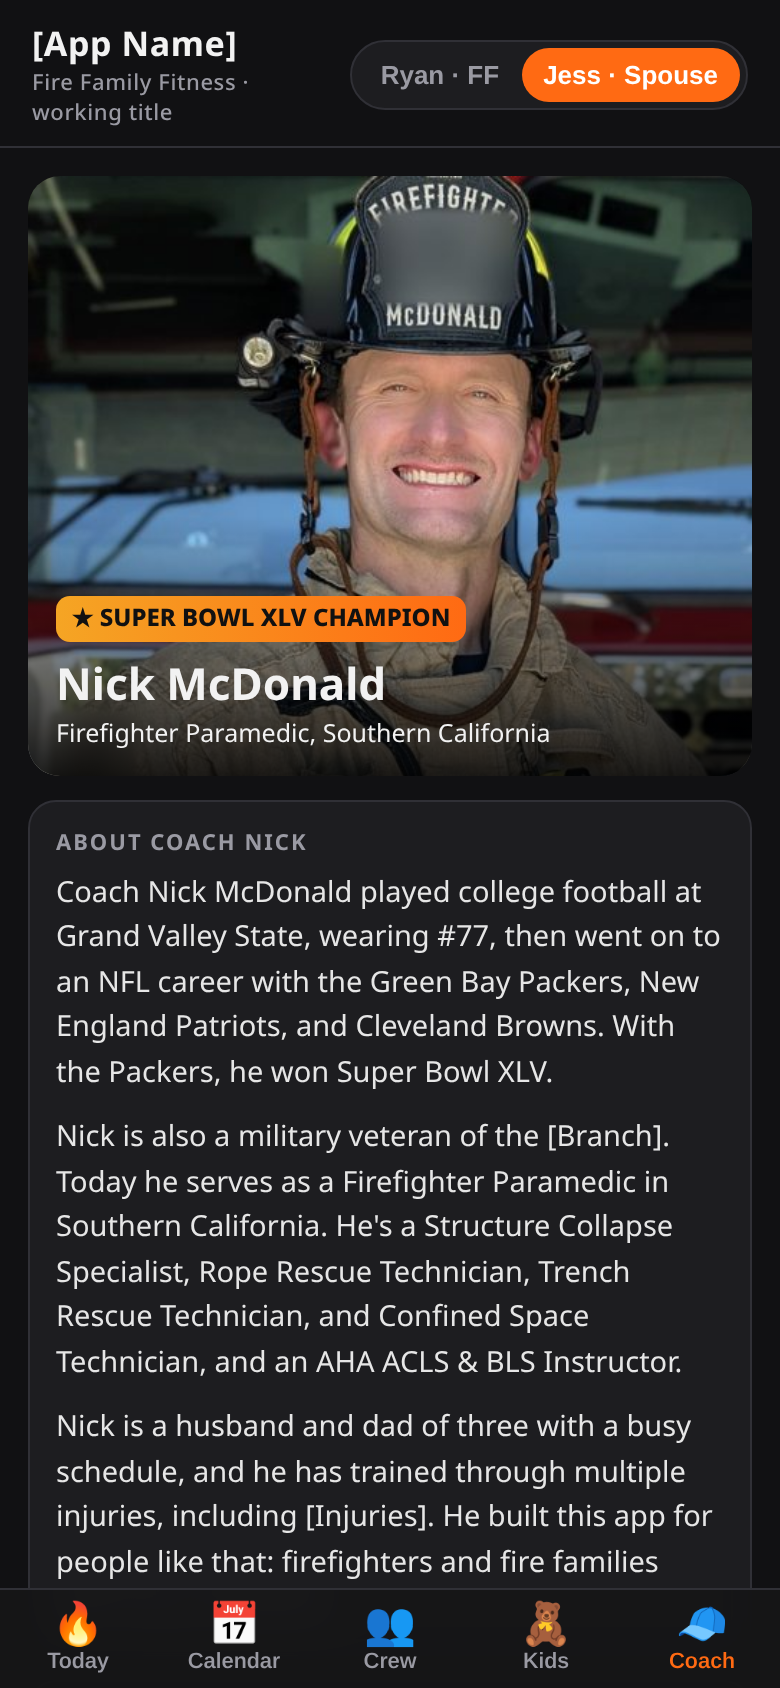
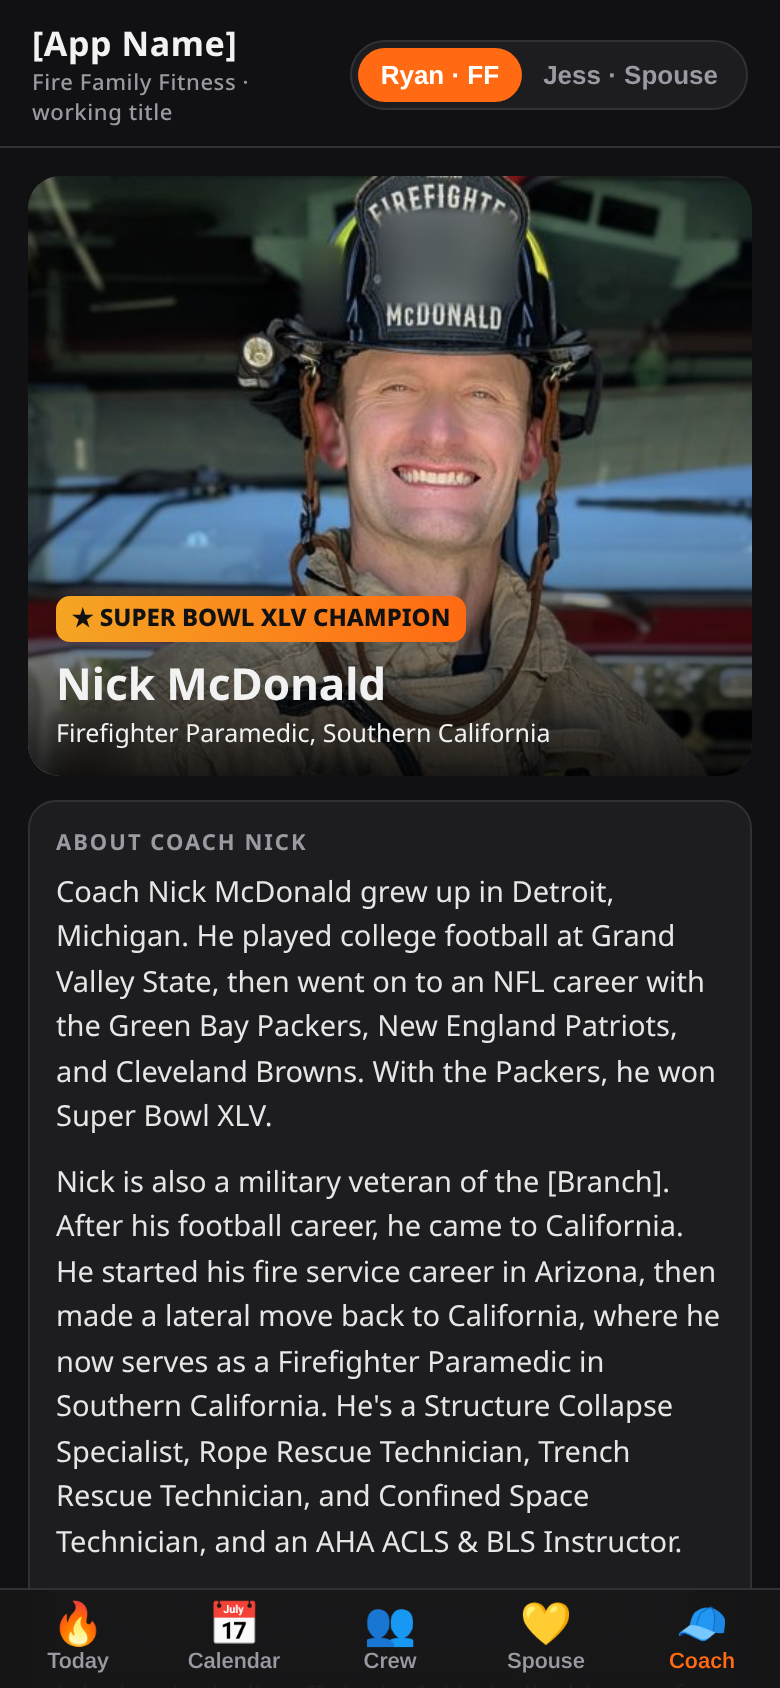
Coach bio: Detroit, AZ fire service, lateral to SoCal; remove jersey numbers; sw v6

Changed region(s): [[0.0615, 0.5237, 0.9231, 1.0], [0.4615, 0.0308, 0.9538, 0.0616]]

diff --git a/app.js b/app.js
@@ -152,16 +152,19 @@ ${[['Nap window · 20 min','Quiet, no jumping: goblet squat, rows, RDL, plank.']
 <div class="card"><div class="lbl">Fri · shared day off</div><h3>Partner workout with Ryan 💪</h3></div>`}
 function coach(){return `<div class="hero"><img src="img/nick.jpg" alt="Nick McDonald in turnouts"><div class="ov"><span class="badge">★ Super Bowl XLV Champion</span><h2 style="margin:6px 0 0">Nick McDonald</h2><div class="small">Firefighter Paramedic, Southern California</div></div></div>
 <div class="card"><div class="lbl">About Coach Nick</div><div class="bio">
-<p>Coach Nick McDonald played college football at Grand Valley State, wearing #77, then went on to an NFL career with the Green Bay Packers, New England Patriots, and Cleveland Browns. With the Packers, he won Super Bowl XLV.</p>
-<p>Nick is also a military veteran of the [Branch]. Today he serves as a Firefighter Paramedic in Southern California. He's a Structure Collapse Specialist, Rope Rescue Technician, Trench Rescue Technician, and Confined Space Technician, and an AHA ACLS &amp; BLS Instructor.</p>
+<p>Coach Nick McDonald grew up in Detroit, Michigan. He played college football at Grand Valley State, then went on to an NFL career with the Green Bay Packers, New England Patriots, and Cleveland Browns. With the Packers, he won Super Bowl XLV.</p>
+<p>Nick is also a military veteran of the [Branch]. After his football career, he came to California. He started his fire service career in Arizona, then made a lateral move back to California, where he now serves as a Firefighter Paramedic in Southern California. He's a Structure Collapse Specialist, Rope Rescue Technician, Trench Rescue Technician, and Confined Space Technician, and an AHA ACLS &amp; BLS Instructor.</p>
 <p>Nick is a husband and dad of three with a busy schedule, and he has trained through multiple injuries, including [Injuries]. He built this app for people like that: firefighters and fire families with busy schedules.</p></div></div>
 <div class="card"><div class="lbl">Career timeline</div><div class="tl">
-<div><b>College football</b><span>Grand Valley State · #77</span></div>
-<div><b>NFL · Green Bay Packers</b><span>#67 · Super Bowl XLV Champion</span></div>
-<div><b>NFL · New England Patriots</b><span>#65</span></div>
-<div><b>NFL · Cleveland Browns</b><span>[#]</span></div>
+<div><b>Hometown</b><span>Detroit, Michigan</span></div>
+<div><b>College football</b><span>Grand Valley State</span></div>
+<div><b>NFL · Green Bay Packers</b><span>Super Bowl XLV Champion</span></div>
+<div><b>NFL · New England Patriots</b></div>
+<div><b>NFL · Cleveland Browns</b></div>
 <div><b>Military</b><span>Veteran · [Branch]</span></div>
-<div><b>Fire service</b><span>Firefighter Paramedic · Southern California</span></div>
+<div><b>California</b><span>Moved after his football career</span></div>
+<div><b>Fire service · Arizona</b><span>Started his fire career</span></div>
+<div><b>Fire service · Southern California</b><span>Lateral move back · Firefighter Paramedic</span></div>
 </div></div>
 <div class="card"><div class="lbl">Credentials</div>${['Firefighter Paramedic','Structure Collapse Specialist','Rope Rescue Technician','Trench Rescue Technician','Confined Space Technician','AHA ACLS &amp; BLS Instructor'].map(c=>`<span class="cred">${c}</span>`).join('')}</div>
 <div class="card"><div class="lbl">Photo strip</div><div class="small mut">GVSU → Packers → Patriots → Browns → Military → Fire service. NFL photos held back until usage rights are confirmed.</div></div>

diff --git a/sw.js b/sw.js
@@ -1,4 +1,4 @@
-const C='firefit-v5',F=['./','index.html','app.js','library.js','manifest.webmanifest','img/nick.jpg','img/icon-192.png','img/icon-512.png'];
+const C='firefit-v6',F=['./','index.html','app.js','library.js','manifest.webmanifest','img/nick.jpg','img/icon-192.png','img/icon-512.png'];
 self.addEventListener('install',e=>{e.waitUntil(caches.open(C).then(c=>c.addAll(F)));self.skipWaiting()});
 self.addEventListener('activate',e=>e.waitUntil(self.clients.claim()));
 self.addEventListener('fetch',e=>e.respondWith(caches.match(e.request).then(r=>r||fetch(e.request))));
